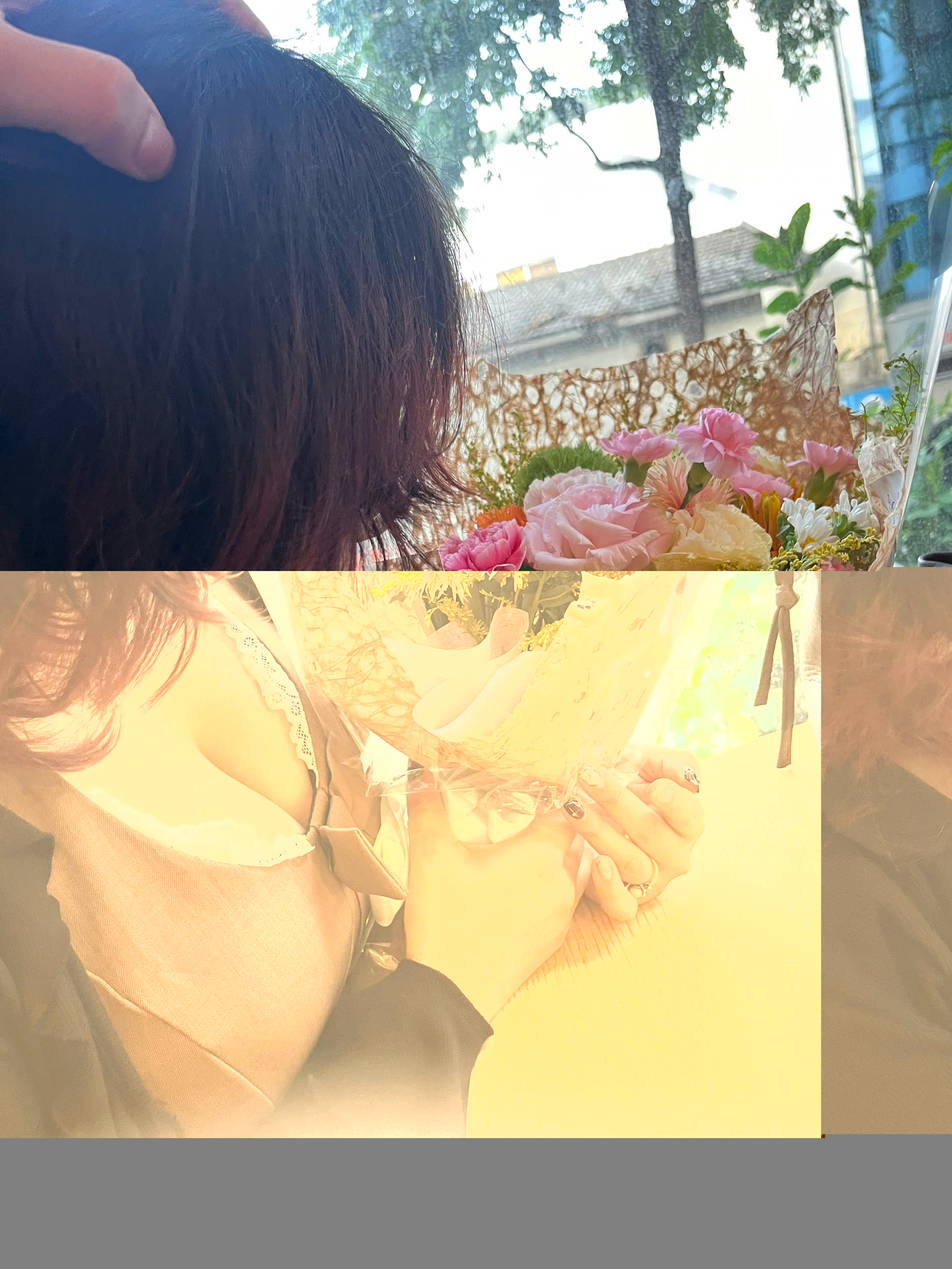
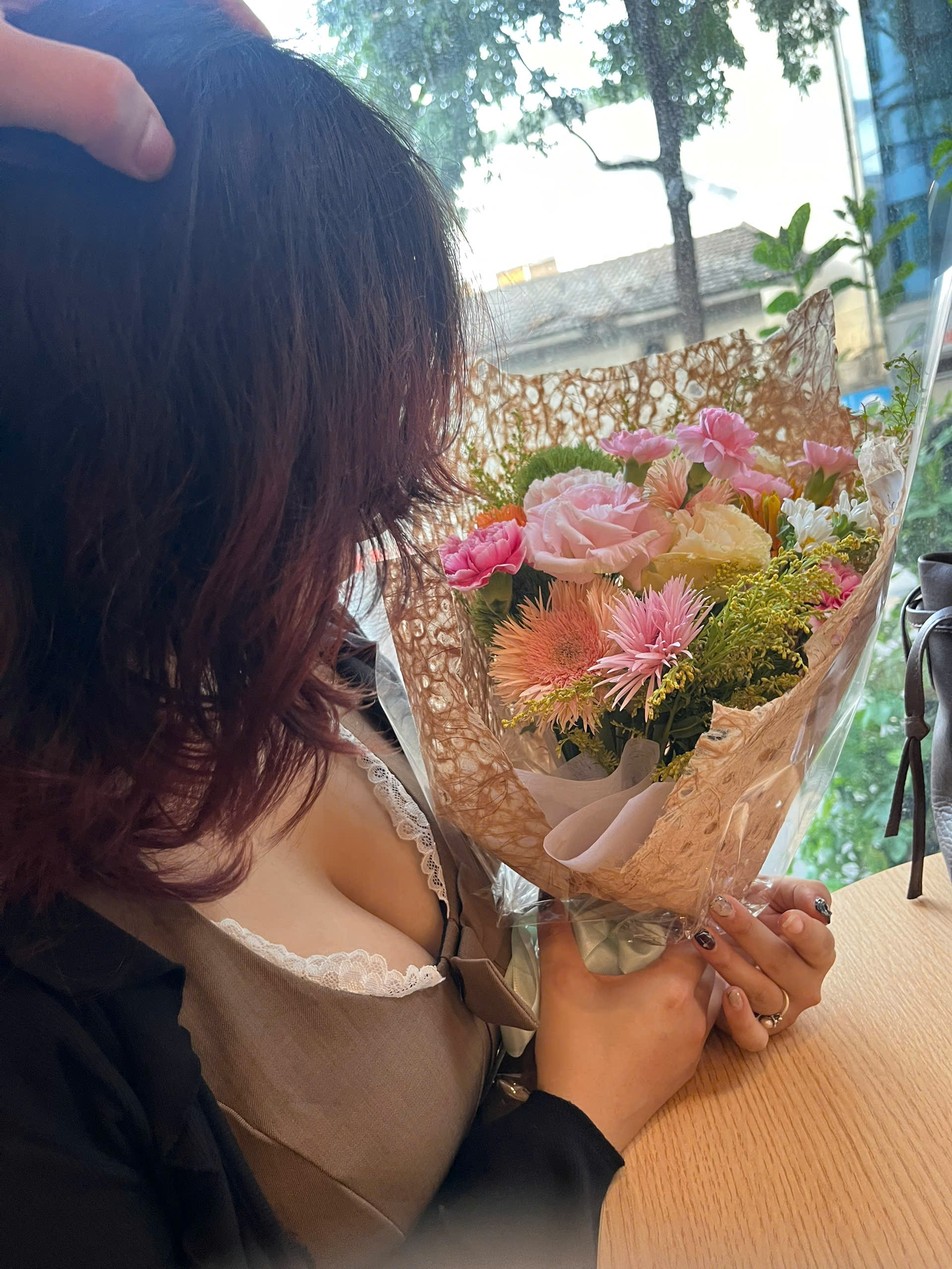
Add reversible message polaroids and restore complete original photos

diff --git a/public/experience.css b/public/experience.css
@@ -4,6 +4,7 @@
 /* Rows behind the separate login page, with identical repeated halves. */
 .login-photo-rows{position:absolute;inset:-30px -10% -30px;z-index:1;display:flex;flex-direction:column;justify-content:space-around;gap:22px;overflow:hidden;rotate:-9deg;opacity:.31;mask-image:linear-gradient(to bottom,transparent,#000 12%,#000 88%,transparent)}.login-photo-row{display:flex;width:max-content;animation:loginRowDrift 95s linear infinite;will-change:transform}.login-photo-row:nth-child(2){animation-direction:reverse;animation-duration:115s}.login-photo-row:nth-child(3){animation-duration:105s}.login-photo-group{display:flex;gap:20px;padding-right:20px;flex-shrink:0}.login-photo-group img{width:clamp(105px,12vw,170px);height:clamp(135px,16vw,218px);object-fit:cover;object-position:center 25%;padding:7px 7px 20px;background:#fffaf1;box-shadow:0 14px 30px #2f648e3a}.login-scene{background:linear-gradient(145deg,#5cace0,#a8d8f6 60%,#d7edfd)}.login-scene .scene-copy{padding-top:9%;text-shadow:0 3px 25px #104a7b55}.login-scene .scene-copy p{color:#fff}.login-polaroid{display:none}.scene-stamp{bottom:12%}.scene-copy h1{font-size:clamp(64px,7vw,105px)}@keyframes loginRowDrift{to{transform:translateX(-50%)}}
 /* Automatic open book */
+.album-grid .photo-card{perspective:1200px;padding:0;background:transparent;box-shadow:none}.polaroid-flip-inner{display:block;position:relative;width:100%;transform-style:preserve-3d;transition:transform .8s cubic-bezier(.2,.65,.25,1)}.photo-card.is-flipped .polaroid-flip-inner{transform:rotateY(180deg)}.polaroid-front-face,.polaroid-back-face{display:block;backface-visibility:hidden;-webkit-backface-visibility:hidden;background:#fffdf8;box-shadow:0 18px 40px #427a9b30}.polaroid-front-face{padding:12px 12px 0}.polaroid-back-face{position:absolute;inset:0;transform:rotateY(180deg);padding:25px 20px;display:flex;flex-direction:column;align-items:center;justify-content:center;text-align:center;overflow:auto;background:repeating-linear-gradient(0deg,transparent,transparent 27px,#b1d2e625 28px),#fffcf3;border:1px solid #d8e5e8;color:#315f7d}.polaroid-back-label{font-size:8px;font-weight:700;letter-spacing:.15em;color:#74a5c3}.polaroid-back-face strong{font-family:'Playfair Display',Georgia,serif;font-weight:500;font-size:25px;line-height:1.2;margin:18px 0}.polaroid-back-message{font-family:'Playfair Display',Georgia,serif;font-style:italic;font-size:16px;line-height:1.75}.polaroid-back-face small{font-size:8px;letter-spacing:.1em;color:#78a5c0;margin-top:22px}
 .book-section{max-width:1000px;margin:110px auto 0;text-align:center}.book-heading h3{font-size:clamp(33px,4vw,54px);font-weight:500;letter-spacing:-.045em;margin:14px 0}.book-heading h3 em{color:#3a8cc2}.book-heading p,.book-hint{font-size:13px;line-height:1.8;color:#60839c}.memory-book{display:grid;grid-template-columns:1fr 1fr;position:relative;perspective:1800px;isolation:isolate;margin:45px auto 0;max-width:850px;border-radius:5px 15px 15px 5px;background:#faf5e9;box-shadow:0 7px 0 #d7d9ce,0 12px 0 #f4f1e7,0 16px 0 #7ca6be,0 36px 65px #1e62834d;transform:rotate(-1deg)}.book-page,.leaf-face{min-width:0;position:relative;padding:28px 29px 36px;background:#fffcf3;min-height:440px}.book-left{border-radius:5px 0 0 5px;background:linear-gradient(90deg,#faf8ef,#fffdf7 70%,#e7e1d1)}.book-right{border-radius:0 15px 15px 0;background:linear-gradient(90deg,#dbd5c6,#fffdf7 12%,#fffaf0)}.book-spine{position:absolute;inset:0 auto 0 50%;width:18px;translate:-50% 0;background:linear-gradient(90deg,transparent,#6b6c6630,transparent);z-index:6;pointer-events:none}.book-photo{display:block;padding:0 0 17px;width:100%;border:0;background:#fff;box-shadow:0 10px 18px #5b6e702e;transition:transform .3s;text-align:center}.book-photo:hover{transform:translateY(-6px) rotate(-1deg)}.book-photo img{display:block;width:100%;height:clamp(175px,29vw,335px);object-fit:cover;object-position:center 26%}.book-photo>span{display:block;padding:15px 8px 0;font-family:'Playfair Display',Georgia,serif;font-style:italic;font-size:15px;color:#3c6e8f}.book-page-number{position:absolute;bottom:12px;left:0;right:0;font-size:9px;letter-spacing:.19em;color:#839697}.turning-leaf{position:absolute;left:50%;top:0;width:50%;height:100%;z-index:8;transform-origin:left center;transform-style:preserve-3d;animation:turnLeaf 1150ms cubic-bezier(.38,.06,.26,1) both;pointer-events:none}.leaf-face{position:absolute;inset:0;min-height:0;backface-visibility:hidden;overflow:hidden;box-shadow:0 8px 20px #314a6020}.leaf-front{background:linear-gradient(90deg,#ded8c7,#fffcf3 13%);border-radius:0 15px 15px 0}.leaf-back{transform:rotateY(180deg);background:linear-gradient(90deg,#fffcf3 78%,#d9d3c2);border-radius:5px 0 0 5px}.turning-leaf.backwards{animation-direction:reverse}@keyframes turnLeaf{0%{transform:rotateY(0deg)}50%{filter:brightness(.88)}100%{transform:rotateY(-180deg)}}.book-dedication{display:flex;flex-direction:column;align-items:center;justify-content:center;height:100%;min-height:350px;color:#326f98}.book-dedication>span{font-size:65px;color:#87bcd9}.book-dedication h3{font-size:34px;font-weight:500;margin:20px 0 15px}.book-dedication p{font-family:'Playfair Display',Georgia,serif;font-style:italic;line-height:1.8;font-size:18px}.book-dedication small{font-size:8px;letter-spacing:.2em}.book-toolbar{display:flex;align-items:center;justify-content:center;gap:20px;margin-top:37px;font-size:10px;letter-spacing:.11em;color:#4c819f;flex-wrap:wrap}.book-toolbar button,.letter-skip{border:1px solid #9fc7de;border-radius:50px;background:#fff9;color:#326f99;padding:10px 16px;font-size:11px;font-weight:600}.book-hint{margin:19px auto 0}.book-next{opacity:.7}
 /* Full viewport portrait, with space for editable titles and paragraphs */
 .photo-viewer{width:100vw;max-width:none;height:100dvh;max-height:none;margin:0;border-radius:0;padding:6vh 7vw;background:#0a2844f5;color:#fff;overflow:auto;box-shadow:none}.photo-viewer::backdrop{background:#061a2cdd;backdrop-filter:blur(14px)}.viewer-layout{display:grid;grid-template-columns:minmax(0,1.35fr) minmax(250px,.8fr);gap:7vw;align-items:center;min-height:88vh}.viewer-frame{display:grid;place-items:center;min-width:0}.viewer-frame img{display:block;width:auto;height:auto;max-width:100%;max-height:84vh;box-shadow:0 25px 80px #0008;border:9px solid #fffaf2;transform-origin:center;will-change:transform}.viewer-copy{text-align:left;animation:viewerCopy .7s .25s both}.viewer-copy .eyebrow{color:#97c9e6}.viewer-copy h2{font-size:clamp(32px,4vw,60px);font-weight:500;letter-spacing:-.04em;line-height:1.18;margin:24px 0}.viewer-copy p{font-size:16px;line-height:1.9;color:#d0e5f3;margin:0 0 35px}.viewer-copy small{color:#8eb4d0;font-size:11px}.photo-viewer>#dialog-close{position:fixed;right:25px;top:20px;z-index:10;width:45px;height:45px;background:#ffffff1c;border:1px solid #ffffff45;color:#fff;font-size:30px}.photo-viewer p{font-family:'DM Sans',sans-serif;font-style:normal;text-align:left}@keyframes viewerCopy{from{opacity:0;translate:0 15px}to{opacity:1;translate:0 0}}
@@ -12,4 +13,5 @@
 .champagne-photo{position:absolute;width:clamp(55px,7.5vw,105px);aspect-ratio:.8;object-fit:cover;object-position:center 25%;padding:4px 4px 15px;background:#fffaf3;box-shadow:0 12px 30px #123c6655;will-change:transform,opacity}.champagne-spark{position:absolute;color:#eaf9ff;text-shadow:0 0 12px #5aa7da;font-size:22px;will-change:transform,opacity}
 @media(max-width:760px){.satellite-field{width:430px;left:55%;top:67%}.hero-copy h1{font-size:clamp(50px,10vw,72px)}.book-section{margin-top:70px}.book-heading h3{font-size:34px}.memory-book{margin-top:30px}.book-page,.leaf-face{padding:12px 12px 30px;min-height:275px}.book-photo{padding-bottom:10px}.book-photo img{height:clamp(170px,48vw,280px)}.book-photo>span{font-size:10px;padding:10px 5px 0;line-height:1.5}.book-page-number{font-size:7px;bottom:10px}.book-spine{width:10px}.book-dedication{min-height:220px}.book-dedication>span{font-size:34px}.book-dedication h3{font-size:20px;margin:12px 0}.book-dedication p{font-size:12px}.book-dedication small{font-size:6px}.book-toolbar{gap:10px;font-size:8px}.book-toolbar button{font-size:10px;padding:9px 12px}.photo-viewer{padding:65px 20px 28px}.viewer-layout{display:flex;flex-direction:column;gap:25px;min-height:0}.viewer-frame{width:100%}.viewer-frame img{max-height:63vh;border-width:6px}.viewer-copy{width:100%;text-align:center}.viewer-copy h2{font-size:28px;margin:12px 0}.viewer-copy .eyebrow{font-size:9px}.viewer-copy p{text-align:center;font-size:13px;margin-bottom:16px}.viewer-copy small{font-size:10px}.photo-viewer>#dialog-close{right:14px;top:12px;width:37px;height:37px}.login-photo-rows{gap:13px;inset:-40px -15%}.login-photo-group{gap:12px;padding-right:12px}.login-photo-group img{width:105px;height:135px;padding:5px 5px 13px}.scene-copy h1{font-size:58px}.champagne-photo{width:58px;padding:3px 3px 10px}.ocean-drift>span{font-size:calc(var(--ocean-size) * .8)}}
 @media(prefers-reduced-motion:reduce){.ocean-drift>span{animation:none;bottom:calc(var(--ocean-left) * .8);opacity:.08}.satellite-field>span,.hero-orbit,.login-photo-row{animation:none}.login-photo-row{transform:translateX(-15%)}.turning-leaf{animation:none}.viewer-copy{animation:none}.writing .ink-copy:after{display:none}.champagne-photo,.champagne-spark{display:none}}
+@media(max-width:760px){.polaroid-front-face{padding:7px 7px 0}.polaroid-back-face{padding:16px 10px}.polaroid-back-face strong{font-size:18px;margin:10px 0}.polaroid-back-message{font-size:12px;line-height:1.6}.polaroid-back-label{font-size:6px;letter-spacing:.08em}.polaroid-back-face small{font-size:6px;margin-top:12px}}
 

diff --git a/public/experience.js b/public/experience.js
@@ -16,6 +16,23 @@ satellites.setAttribute('aria-hidden', 'true');
 satellites.innerHTML = '<span>✦</span><span>♡</span><span>✧</span>';
 document.querySelector('.hero').prepend(satellites);
 
+// These four featured cards turn over in place; the book uses the full-screen viewer.
+document.querySelectorAll('.album-grid .photo-card').forEach((card, index) => {
+  const message = window.HA_FEATURED_MESSAGES[index];
+  const inner = document.createElement('span'); inner.className = 'polaroid-flip-inner';
+  const front = document.createElement('span'); front.className = 'polaroid-front-face';
+  while (card.firstChild) front.append(card.firstChild);
+  const back = document.createElement('span'); back.className = 'polaroid-back-face';
+  back.setAttribute('aria-hidden', 'true');
+  const label = document.createElement('span'); label.className = 'polaroid-back-label'; label.textContent = 'MỘT LỜI NHẮN · 20/10';
+  const title = document.createElement('strong'); title.textContent = message.title;
+  const body = document.createElement('span'); body.className = 'polaroid-back-message'; body.textContent = message.message;
+  const hint = document.createElement('small'); hint.textContent = 'CHẠM ĐỂ TRỞ LẠI ↻';
+  back.append(label, title, body, hint); inner.append(front, back); card.append(inner);
+  card.setAttribute('aria-pressed', 'false');
+  card.setAttribute('aria-label', `Lật ảnh để đọc lời nhắn: ${message.title}`);
+});
+
 // The book advances only while it is on screen and no picture is open.
 const bookSection = document.createElement('section');
 bookSection.className = 'book-section';
@@ -160,7 +177,13 @@ async function closePortrait() {
 }
 album.addEventListener('click', event => {
   const button = event.target.closest('[data-photo]');
-  if (button) openPortrait(button);
+  if (!button) return;
+  if (button.classList.contains('photo-card')) {
+    const flipped = button.classList.toggle('is-flipped');
+    button.setAttribute('aria-pressed', String(flipped));
+    button.querySelector('.polaroid-front-face').setAttribute('aria-hidden', String(flipped));
+    button.querySelector('.polaroid-back-face').setAttribute('aria-hidden', String(!flipped));
+  } else openPortrait(button);
 });
 viewer.querySelector('#dialog-close').addEventListener('click', closePortrait);
 viewer.addEventListener('cancel', event => { event.preventDefault(); closePortrait(); });

diff --git a/scrapbook.html b/scrapbook.html
@@ -4,8 +4,8 @@
   <meta charset="utf-8"><meta name="viewport" content="width=device-width, initial-scale=1">
   <meta name="theme-color" content="#337fb9"><title>Gửi Vũ Khánh Hạ — 20/10 ♡</title>
   <meta name="description" content="Một cuốn scrapbook nhỏ dành cho Vũ Khánh Hạ ngày 20/10.">
-  <link rel="icon" href="./public/favicon.svg"><link rel="stylesheet" href="./public/styles.css?v=6"><link rel="stylesheet" href="./public/experience.css?v=6"><script src="./public/access.js"></script><script src="./public/app.js?v=6" defer></script>
-<script src="./public/memories.js" defer></script><script src="./public/experience.js?v=6" defer></script></head>
+  <link rel="icon" href="./public/favicon.svg"><link rel="stylesheet" href="./public/styles.css?v=7"><link rel="stylesheet" href="./public/experience.css?v=7"><script src="./public/access.js"></script><script src="./public/app.js?v=7" defer></script>
+<script src="./public/memories.js?v=7" defer></script><script src="./public/experience.js?v=7" defer></script></head>
 <body class="site-body">
   <div class="sky-grain" aria-hidden="true"></div>
   <header class="site-header"><a href="#intro" class="brand">Hạ <span>♡</span> 20/10</a><nav class="desktop-nav" aria-label="Điều hướng chính"><a href="#letter">Thư</a><a href="#album">Album</a><a href="#story">Chuyện mình</a><a href="#surprise">Bất ngờ</a></nav><div class="header-actions"><button id="music-toggle" class="music-toggle" type="button" aria-pressed="false"><span aria-hidden="true">♫</span> <span id="music-label">Nhạc của mình</span></button><button id="logout" class="logout-btn" type="button" aria-label="Đăng xuất" title="Đăng xuất">↗</button></div></header>

diff --git a/public/login.js b/public/login.js
@@ -28,7 +28,7 @@ form.addEventListener('submit', async (event) => {
     const hash = Array.from(new Uint8Array(digest), byte => byte.toString(16).padStart(2, '0')).join('');
     if (hash !== config.hash) throw new Error('Chưa đúng rồi, em thử lại nhé.');
     sessionStorage.setItem('ha-access', config.hash);
-    window.location.replace('./scrapbook.html');
+    window.location.replace('./scrapbook.html?v=7');
   } catch (reason) {
     error.textContent = reason.message || 'Có lỗi kết nối. Thử lại nhé.';
     submit.disabled = false;
@@ -49,7 +49,7 @@ for (let rowIndex = 0; rowIndex < 3; rowIndex++) {
     for (let offset = 1; offset <= 9; offset++) {
       const image = document.createElement('img');
       const number = rowIndex * 9 + offset;
-      image.src = `./public/media/photo-${String(number).padStart(2, '0')}.jpg`;
+      image.src = `./public/media/photo-${String(number).padStart(2, '0')}.jpg?v=7`;
       image.alt = '';
       image.decoding = 'async';
       group.append(image);

diff --git a/public/memories.js b/public/memories.js
@@ -6,3 +6,11 @@ window.HA_MEMORIES = Array.from({ length: 27 }, (_, index) => ({
   paragraph: '' // Add the memory or a message here when ready.
 }));
 
+// Messages on the backs of the four featured polaroids.
+window.HA_FEATURED_MESSAGES = [
+  { title: 'Luôn là em nhé', message: 'Tóc ngắn hay tóc dài, mong Hạ luôn tự tin với phiên bản mà em yêu thích. Chúc em 20/10 thật rạng rỡ. ♡' },
+  { title: 'Một ngày thật dịu dàng', message: 'Mong em được yêu thương, được lắng nghe và có thời gian cho những điều em thích — hôm nay và cả những ngày sau. ✿' },
+  { title: 'Dành cho những ước mơ', message: 'Chúc những nét vẽ, những dự định và những điều em ấp ủ đều có cơ hội lớn lên. Anh luôn mong em hạnh phúc. ✦' },
+  { title: 'Ngày của Khánh Hạ', message: '20/10 này, chúc cô gái nhỏ có thật nhiều niềm vui, thật nhiều bình yên và thật nhiều lý do để mỉm cười. ♡' }
+];
+

diff --git a/index.html b/index.html
@@ -3,7 +3,7 @@
 <head>
   <meta charset="utf-8"><meta name="viewport" content="width=device-width, initial-scale=1">
   <meta name="theme-color" content="#d8efff"><title>Một góc nhỏ dành cho Hạ ♡</title>
-  <link rel="icon" href="./public/favicon.svg"><link rel="stylesheet" href="./public/styles.css?v=6"><link rel="stylesheet" href="./public/experience.css?v=6"><script src="./public/access.js" defer></script><script src="./public/login.js?v=6" defer></script>
+  <link rel="icon" href="./public/favicon.svg"><link rel="stylesheet" href="./public/styles.css?v=7"><link rel="stylesheet" href="./public/experience.css?v=7"><script src="./public/access.js" defer></script><script src="./public/login.js?v=7" defer></script>
 </head>
 <body class="login-body">
   <div class="sky-grain" aria-hidden="true"></div>

diff --git a/public/app.js b/public/app.js
@@ -1,5 +1,5 @@
 const reducedMotion = window.matchMedia('(prefers-reduced-motion: reduce)');
-const photoPath = number => `./public/media/photo-${String(number).padStart(2, '0')}.jpg`;
+const photoPath = number => `./public/media/photo-${String(number).padStart(2, '0')}.jpg?v=7`;
 const photoAlt = number => `Ảnh Khánh Hạ trong bộ sưu tập, số ${number}`;
 function attachPhoto(container, number, eager = false) {
   const image = document.createElement('img');

diff --git a/README.md b/README.md
@@ -20,4 +20,5 @@ Trang dự kiến: https://long7102.github.io/khanh-ha-20-10/
 Sửa trực tiếp HTML, CSS hoặc JavaScript rồi commit. Nhạc hiện là placeholder: thêm file vào `public/media/` và đặt `AUDIO_SRC` trong `public/app.js` thành đường dẫn tương đối, ví dụ `./public/media/our-song.mp3`.
 
 Nếu đổi thông tin đăng nhập, cập nhật hash SHA-256 của chuỗi `username:password:salt` trong `public/access.js`.
+`public/memories.js`: sửa title/paragraph của 27 ảnh và lời nhắn mặt lưng của 4 polaroid. Album sách tự lật khi ở trong màn hình; ảnh có thể rút ra toàn màn hình và trả về trang cũ. Hiệu ứng hỗ trợ prefers-reduced-motion.
 
